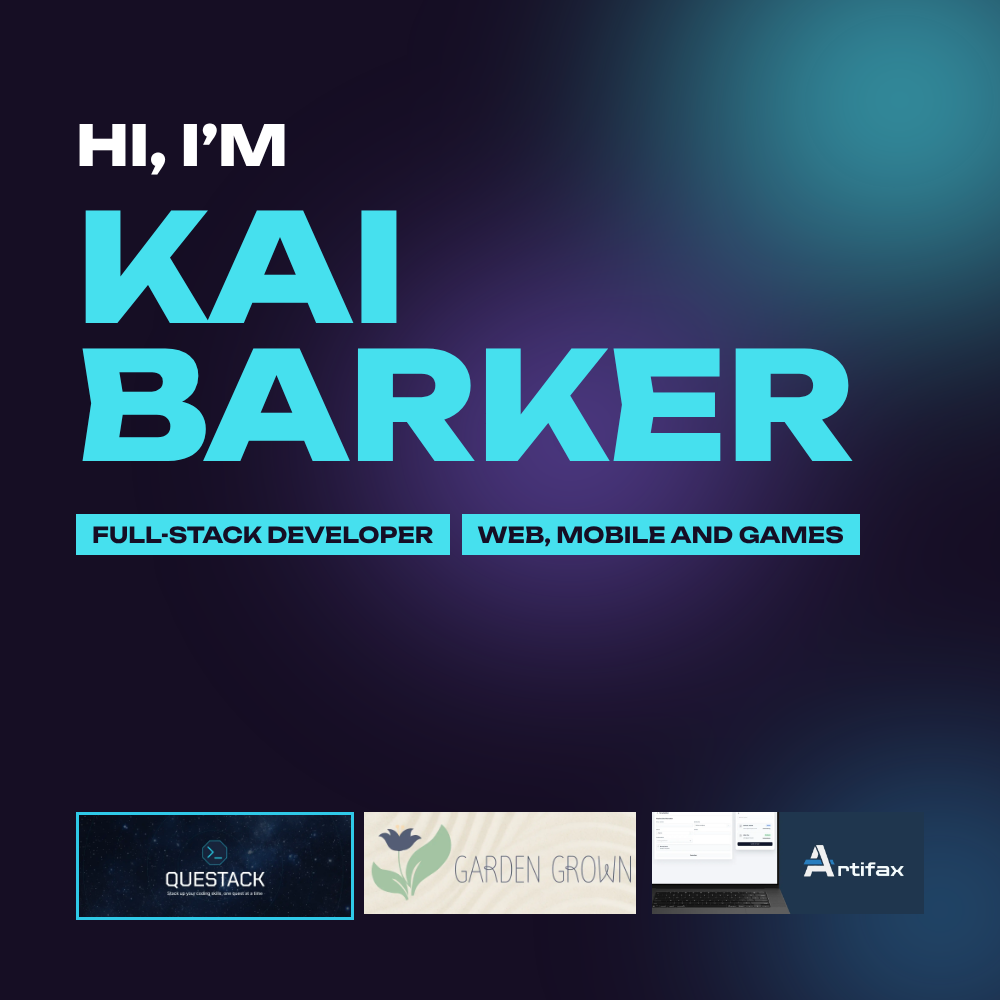
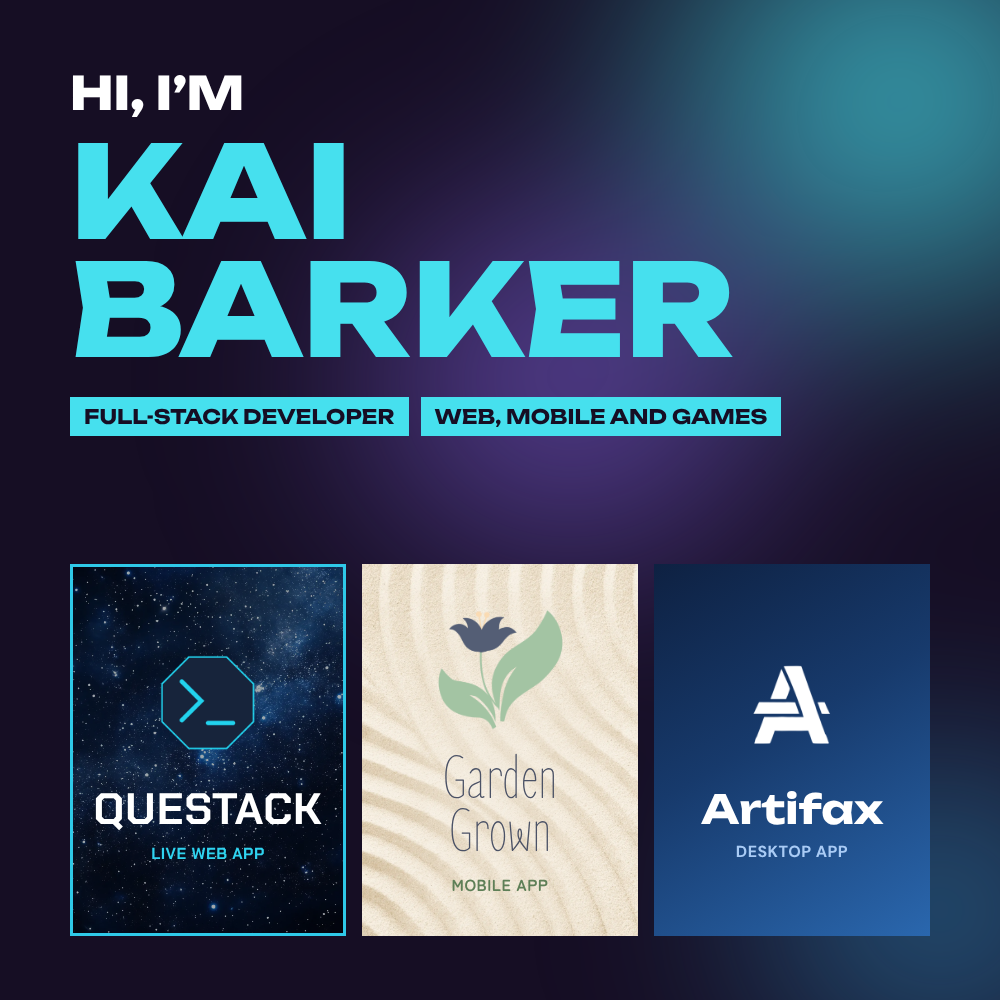
updated sand background

diff --git a/index.html b/index.html
@@ -80,7 +80,7 @@ a:hover .arrow{transform:translate(2px,-2px)}
 .card-qs{background:#07142A;border:2px solid #2FC9E8;color:#E7F4FB;font-family:"Chakra Petch"}
 .card-qs h3{font-family:"Chakra Petch";font-weight:700;text-transform:uppercase}
 .card-qs .kind{color:#2FC9E8}
-.card-gg{background:#F1E9DA;color:#4B5266;font-family:"Zen Maru Gothic"}
+.card-gg{background:#F1E9DA url("assets/gg-sand-bg.webp") center/cover;color:#4B5266;font-family:"Zen Maru Gothic"}
 .card-gg h3{font-family:"Zen Loop";font-weight:400;font-size:2rem;line-height:1}
 .card-gg .kind{color:#6F8D68}
 .card-ax{background:linear-gradient(160deg,#1B3C6E,#2A62A6);color:#EAF1FB}
@@ -161,9 +161,9 @@ figcaption{font-size:.88rem;color:var(--soft);margin-top:8px}
 .qs .docs a{color:var(--label)}
 
 /* ===================== GARDENGROWN: raked sand ===================== */
-.gg{--fg:#454B5E;--soft:#5E6475;--label:#5E7F57;--slate:#5D6681;--sage:#A9C9A0;--peach:#F2C9A8;--focus:#5D6681;background:#EFE6D5;font-family:"Zen Maru Gothic",sans-serif}
-.gg::before{content:"";position:absolute;inset:0;background:url("assets/gg-sand-tile.webp") 0 0/340px 340px repeat;opacity:.22;z-index:0}
-.gg::after{content:"";position:absolute;inset:0;background:radial-gradient(ellipse at 50% 40%,rgba(239,230,213,.75),rgba(239,230,213,.25) 70%);z-index:0}
+.gg{--fg:#454B5E;--soft:#5E6475;--label:#5E7F57;--slate:#5D6681;--sage:#A9C9A0;--peach:#F2C9A8;--focus:#5D6681;background:#EFE6D5;font-family:"Zen Maru Gothic",sans-serif;clip-path:inset(0)}
+.gg-bg{position:fixed;inset:0;z-index:0;pointer-events:none;background:#EFE6D5 url("assets/gg-sand-bg.webp") center/cover no-repeat}
+.gg-bg::after{content:"";position:absolute;inset:0;background:radial-gradient(ellipse at 50% 45%,rgba(243,236,224,.55),rgba(243,236,224,.12) 75%)}
 .leaf{position:absolute;z-index:0;pointer-events:none;width:clamp(150px,22vw,300px);opacity:.9;transform-origin:50% 100%;animation:sway 7s ease-in-out infinite alternate}
 .leaf.tr{top:-30px;right:-40px;transform:rotate(200deg);animation-name:sway2}
 .leaf.bl{bottom:-20px;left:-50px;animation-duration:8.5s}
@@ -258,7 +258,7 @@ footer small{display:block;margin-top:64px;color:#B9B1CC;font-size:.85rem}
 /* ===================== Fade stack: sections slide over each other ===================== */
 .stack-on .stackp{position:sticky}
 .stack-on .stackp:not(:first-of-type),.stack-on main>.stackp{border-radius:28px 28px 0 0;margin-top:-28px;box-shadow:0 -24px 60px rgba(0,0,0,.38)}
-.stack-on .qs{clip-path:inset(0 round 28px 28px 0 0)}
+.stack-on .qs,.stack-on .gg{clip-path:inset(0 round 28px 28px 0 0)}
 .stack-on footer{z-index:9}
 .dim{position:absolute;inset:0;background:#05030B;opacity:0;pointer-events:none;z-index:8;will-change:opacity}
 .stackp>.wrap{will-change:opacity,transform}
@@ -430,6 +430,7 @@ footer small{display:block;margin-top:64px;color:#B9B1CC;font-size:.85rem}
 
 <!-- ================= GARDENGROWN ================= -->
 <section class="world gg" id="gardengrown" aria-labelledby="gg-title">
+  <div class="gg-bg" aria-hidden="true"></div>
   <svg class="leaf tr" viewBox="0 0 200 260" aria-hidden="true"><g fill="none"><path d="M100 258 C98 190 104 120 96 10" stroke="#8DB386" stroke-width="3"/></g><g fill="#9DC296"><ellipse cx="72" cy="200" rx="34" ry="14" transform="rotate(-35 72 200)" opacity=".75"/><ellipse cx="130" cy="170" rx="36" ry="14" transform="rotate(30 130 170)" opacity=".6"/><ellipse cx="70" cy="130" rx="32" ry="13" transform="rotate(-40 70 130)" opacity=".7"/><ellipse cx="128" cy="98" rx="30" ry="12" transform="rotate(35 128 98)" opacity=".55"/><ellipse cx="80" cy="62" rx="26" ry="11" transform="rotate(-45 80 62)" opacity=".65"/><ellipse cx="114" cy="34" rx="22" ry="9" transform="rotate(40 114 34)" opacity=".5"/></g></svg>
   <svg class="leaf bl" viewBox="0 0 200 260" aria-hidden="true"><g fill="none"><path d="M100 258 C96 190 108 120 100 12" stroke="#8DB386" stroke-width="3"/></g><g fill="#A9CBA1"><ellipse cx="68" cy="196" rx="38" ry="15" transform="rotate(-30 68 196)" opacity=".7"/><ellipse cx="134" cy="160" rx="38" ry="15" transform="rotate(32 134 160)" opacity=".6"/><ellipse cx="68" cy="118" rx="32" ry="13" transform="rotate(-38 68 118)" opacity=".7"/><ellipse cx="130" cy="84" rx="28" ry="11" transform="rotate(36 130 84)" opacity=".55"/><ellipse cx="88" cy="44" rx="22" ry="9" transform="rotate(-42 88 44)" opacity=".6"/></g></svg>
   <svg class="leaf mr" viewBox="0 0 200 260" aria-hidden="true"><g fill="none"><path d="M100 258 C100 180 102 110 98 20" stroke="#8DB386" stroke-width="3"/></g><g fill="#9DC296"><ellipse cx="70" cy="190" rx="34" ry="13" transform="rotate(-32 70 190)" opacity=".6"/><ellipse cx="132" cy="140" rx="34" ry="13" transform="rotate(32 132 140)" opacity=".55"/><ellipse cx="74" cy="90" rx="28" ry="11" transform="rotate(-38 74 90)" opacity=".6"/></g></svg>
